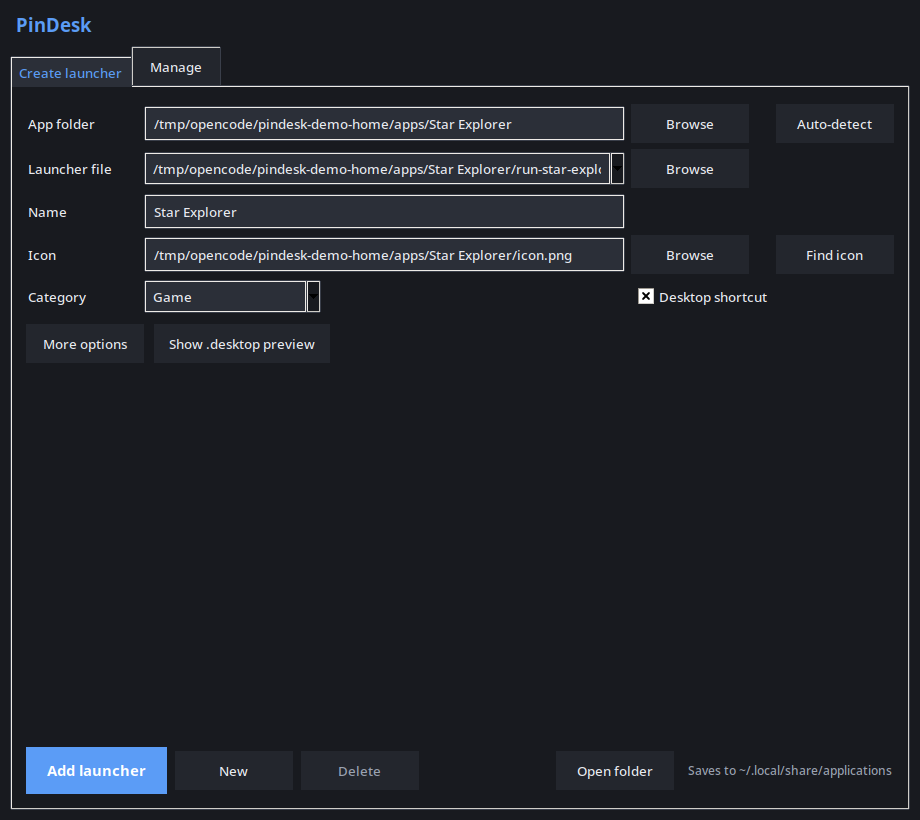
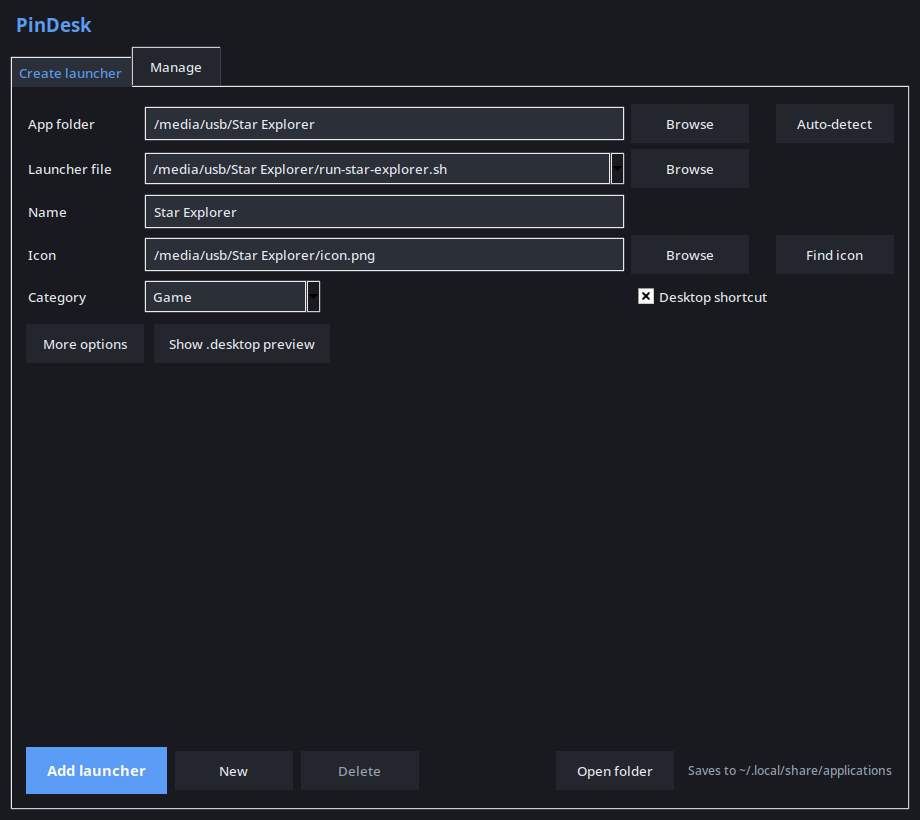
Sanitize screenshots and add app-only release archive

Changed region(s): [[0.1826, 0.122, 0.6696, 0.2134], [0.1826, 0.3049, 0.6391, 0.3354]]

diff --git a/test_portable_launcher.py b/test_portable_launcher.py
@@ -298,7 +298,7 @@ class ThemeTests(unittest.TestCase):
 class BrandingTests(unittest.TestCase):
     def test_app_identity(self):
         self.assertEqual(pl.APP_NAME, "PinDesk")
-        self.assertEqual(pl.APP_VERSION, "1.0.1")
+        self.assertEqual(pl.APP_VERSION, "1.0.2")
 
     def test_app_icon_files_exist(self):
         icon = pl.app_icon_path()

diff --git a/pindesk.py b/pindesk.py
@@ -31,7 +31,7 @@ except ImportError:
     HAS_PIL = False
 
 APP_NAME = "PinDesk"
-APP_VERSION = "1.0.1"
+APP_VERSION = "1.0.2"
 SCHEMA_VERSION = 1
 MODULE_DIR = Path(__file__).resolve().parent
 APP_ICON = MODULE_DIR / "docs" / "logo.png"

diff --git a/CHANGELOG.md b/CHANGELOG.md
@@ -5,7 +5,18 @@ All notable changes to this project are documented here.
 The format is based on [Keep a Changelog](https://keepachangelog.com/en/1.1.0/)
 and this project adheres to [Semantic Versioning](https://semver.org/spec/v2.0.0.html).
 
-## [1.0.1] - 2026-11-26
+## [1.0.2] - 2026-11-26
+
+### Changed
+
+- Regenerated documentation screenshots with generic demo paths instead of a real home path.
+- Releases now also include an app-only ZIP with just the runnable files, README, license and logo.
+- Rewrote Git history so every commit uses GitHub's noreply email address.
+- Removed the v1.0.0 and v1.0.1 releases and tags, which contained the older screenshots.
+
+[1.0.2]: https://github.com/F1tixx/PinDesk/releases/tag/v1.0.2
+
+## 1.0.1 - 2026-11-26
 
 ### Added
 
@@ -17,9 +28,9 @@ and this project adheres to [Semantic Versioning](https://semver.org/spec/v2.0.0
 - `install.sh` now uses the bundled logo instead of a generated initials icon.
 - Test suite expanded to 21 tests.
 
-[1.0.1]: https://github.com/F1tixx/PinDesk/releases/tag/v1.0.1
+This release was removed in 1.0.2.
 
-## [1.0.0] - 2026-11-26
+## 1.0.0 - 2026-11-26
 
 First public release, branded **PinDesk**.
 
@@ -40,4 +51,4 @@ First public release, branded **PinDesk**.
 - Configuration moved from `~/.config/portable-launcher/` to `~/.config/pindesk/`
   with automatic migration of existing settings and launcher registry.
 
-[1.0.0]: https://github.com/F1tixx/PinDesk/releases/tag/v1.0.0
+This release was removed in 1.0.2.

diff --git a/README.md b/README.md
@@ -80,6 +80,9 @@ cd PinDesk
 python3 pindesk.py
 ```
 
+> Want the smallest download? The latest release also has an **app-only ZIP**
+> containing just `pindesk.py`, the install/uninstall scripts, README, license
+> and logo — no docs or CI folders.
 
 To add PinDesk itself to your application menu:
 
